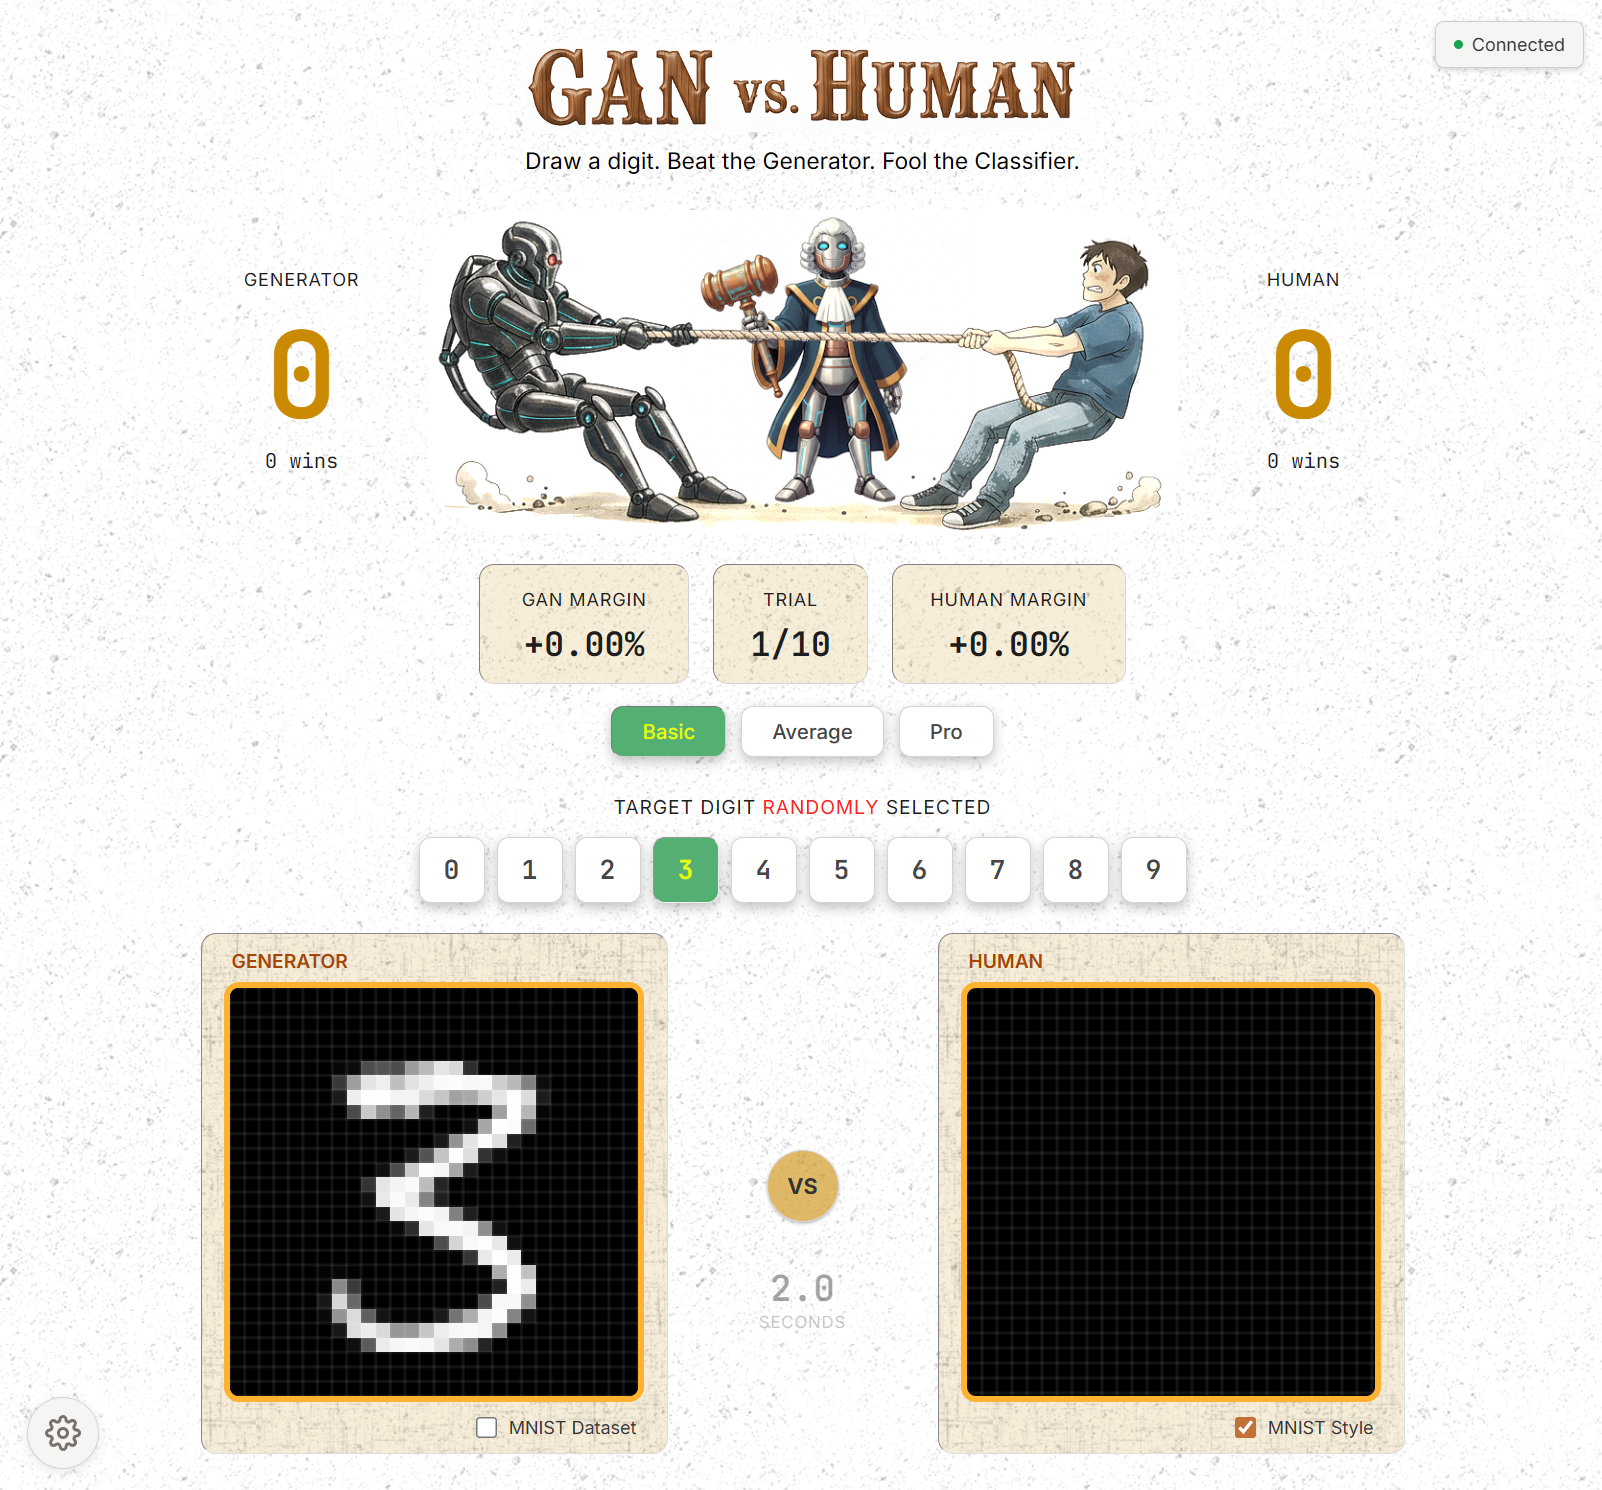
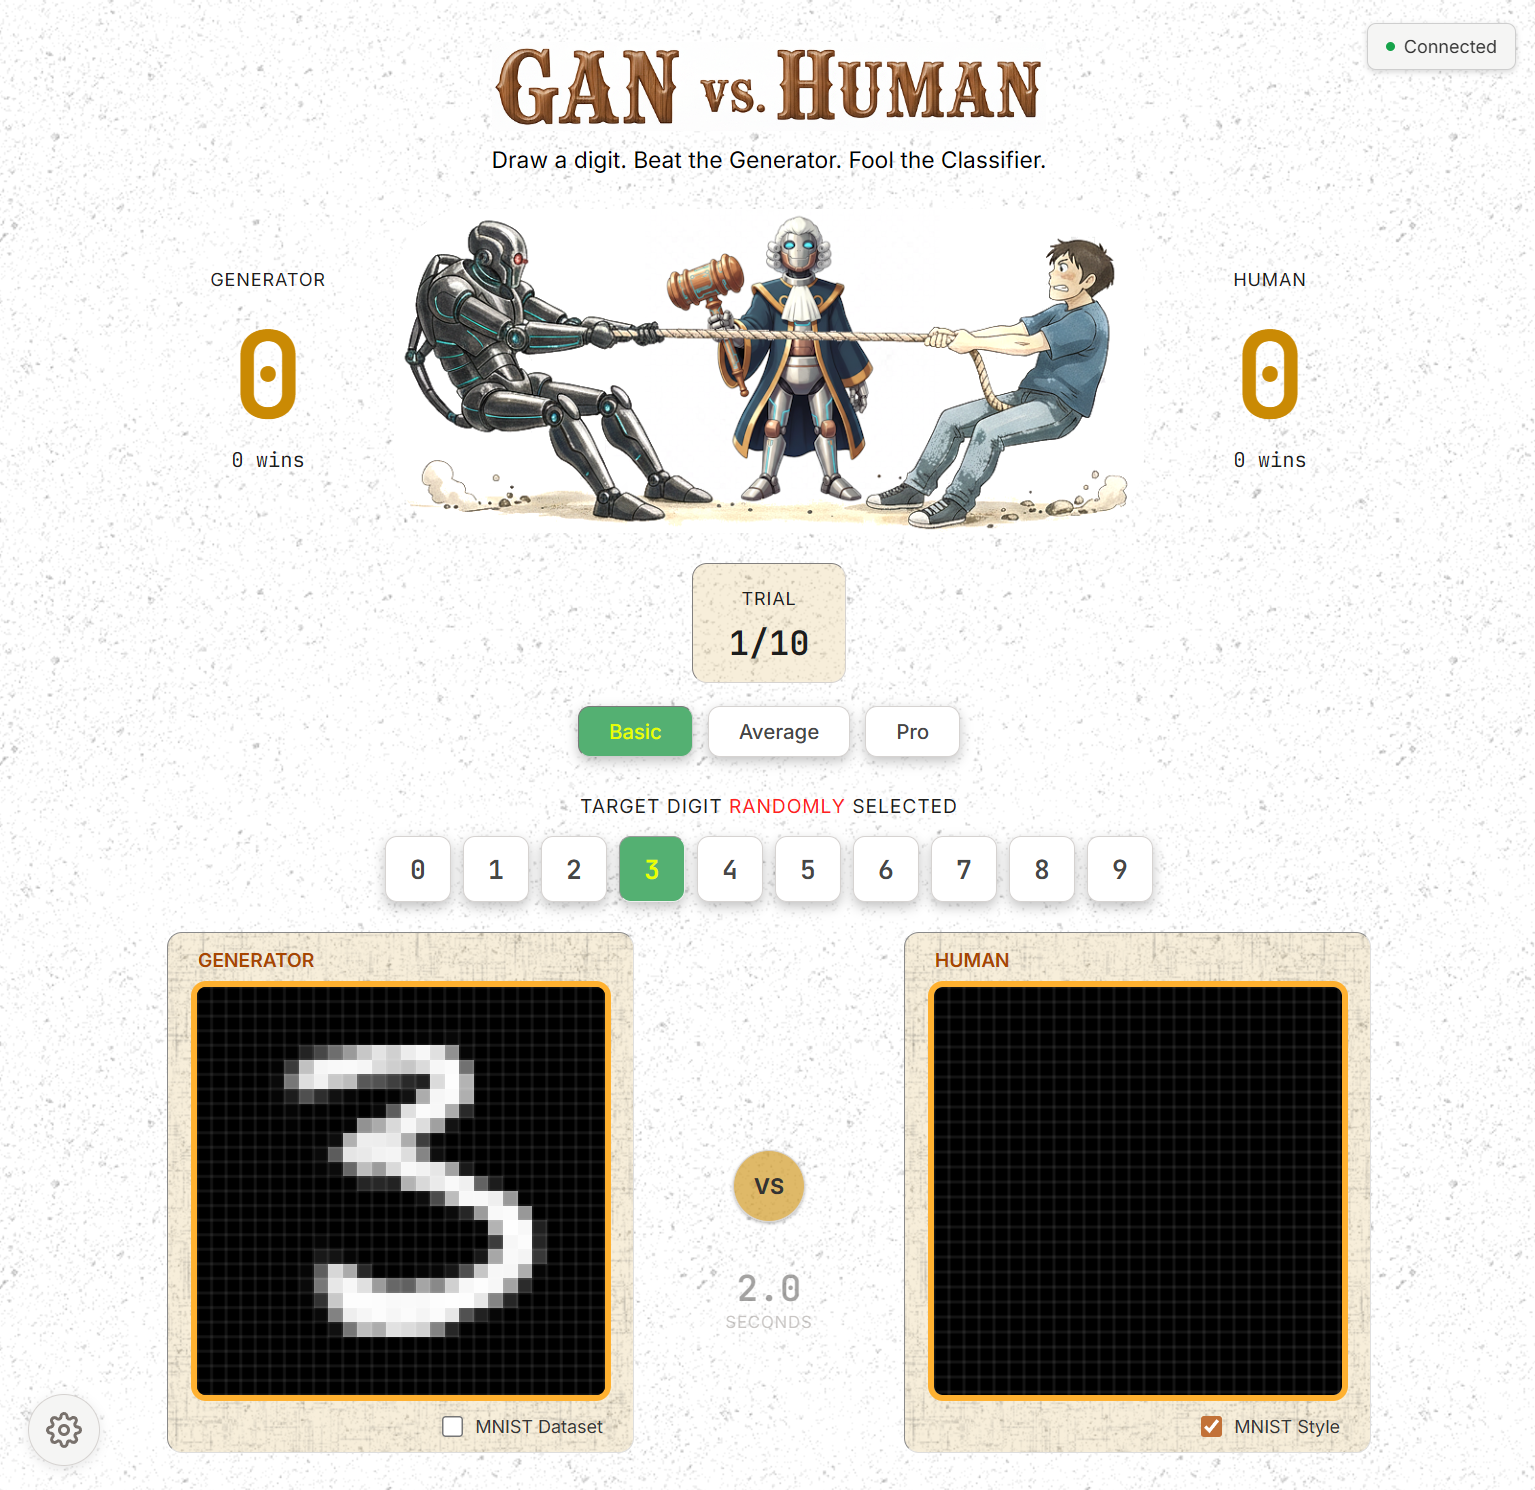
Remove game margins' panels

diff --git a/drafts/draft_01/web/scripts/game.js b/drafts/draft_01/web/scripts/game.js
@@ -48,7 +48,7 @@ let state = {
 // SOCKET
 // ============================================
 const socket = io({
-	path: window.location.pathname.startsWith("/gan_game") ? "/gan_game/socket.io" : "/socket.io",
+	path: window.location.pathname.startsWith("/gan") ? "/gan/socket.io" : "/socket.io",
 	transports: ["websocket"]
 });
 
@@ -173,7 +173,7 @@ mnistDigitToggle.addEventListener("change", () => {
 	document.getElementById("tugGenLabel").textContent = 
 		isMnist ? "MNIST" : "Generator";
 	document.getElementById("genWinsLabel").textContent = 
-		isMnist ? "MNIST Margin" : "GAN Margin";
+		isMnist ? "MNIST Avg Margin" : "GAN Avg Margin";
 	
 	// Restart current round with new source (keeps same digit)
 	if (state.digit !== null && !state.judging) {
@@ -723,9 +723,13 @@ function updateMarginDisplay() {
 	const humanMarginEl = document.getElementById("humanMargin");
 	const genMarginEl = document.getElementById("genMargin");
 	
+	// Calculate average margin (total margin / trials won)
+	const avgHumanMargin = state.humanTrialWins > 0 ? state.humanMargin / state.humanTrialWins : 0;
+	const avgGenMargin = state.genTrialWins > 0 ? state.genMargin / state.genTrialWins : 0;
+	
 	// Format with sign and 2 decimal places
-	const humanText = (state.humanMargin >= 0 ? "+" : "") + state.humanMargin.toFixed(2) + "%";
-	const genText = (state.genMargin >= 0 ? "+" : "") + state.genMargin.toFixed(2) + "%";
+	const humanText = (avgHumanMargin >= 0 ? "+" : "") + avgHumanMargin.toFixed(2) + "%";
+	const genText = (avgGenMargin >= 0 ? "+" : "") + avgGenMargin.toFixed(2) + "%";
 	
 	humanMarginEl.textContent = humanText;
 	genMarginEl.textContent = genText;
@@ -734,10 +738,10 @@ function updateMarginDisplay() {
 	humanMarginEl.classList.remove("positive", "negative");
 	genMarginEl.classList.remove("positive", "negative");
 	
-	if (state.humanMargin > state.genMargin) {
+	if (avgHumanMargin > avgGenMargin) {
 		humanMarginEl.classList.add("positive");
 		genMarginEl.classList.add("negative");
-	} else if (state.genMargin > state.humanMargin) {
+	} else if (avgGenMargin > avgHumanMargin) {
 		genMarginEl.classList.add("positive");
 		humanMarginEl.classList.add("negative");
 	}

diff --git a/drafts/draft_01/web/game.html b/drafts/draft_01/web/game.html
@@ -31,16 +31,16 @@
 
   <!-- Score Section -->
   <div class="score-section">
-    <div class="score-card">
-      <div class="label" id="genWinsLabel">GAN Margin</div>
+    <div class="score-card" style="display:none;">
+      <div class="label" id="genWinsLabel">GAN Avg Margin</div>
       <div class="margin-value" id="genMargin">+0.00%</div>
     </div>
     <div class="trial-indicator">
       <div class="label">Trial</div>
       <div class="trial" id="trialDisplay">1/10</div>
     </div>
-    <div class="score-card">
-      <div class="label">Human Margin</div>
+    <div class="score-card" style="display:none;">
+      <div class="label">Human Avg Margin</div>
       <div class="margin-value" id="humanMargin">+0.00%</div>
     </div>
   </div>

diff --git a/drafts/draft_01/web/styles/game.css b/drafts/draft_01/web/styles/game.css
@@ -689,7 +689,7 @@ header {
 
 /* Round Result Indicator */
 .round-result {
-    font-size: 0.9rem;
+    font-size: 1.1rem;
     font-weight: 600;
     padding: 8px 16px;
     text-align: center;
